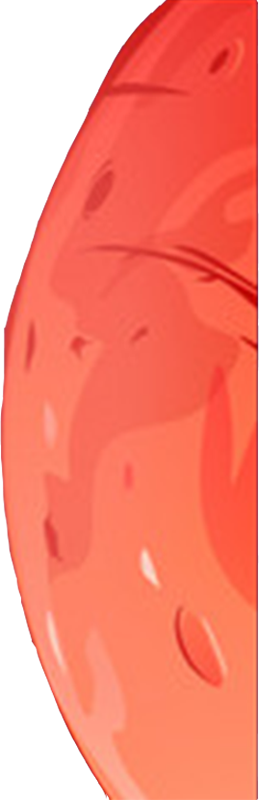
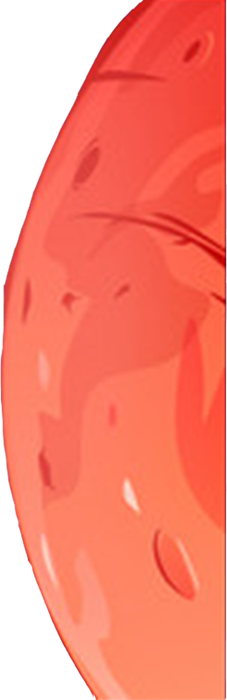
feat plane movement done, level points to do

diff --git a/thequest/scenes.py b/thequest/scenes.py
@@ -181,7 +181,7 @@ class Information(Scenes):
 class Game(Scenes):
     def __init__(self, screen: pg.Surface):
         super().__init__(screen)
-        bg_file = os.path.join("resources", "images", "background.png")
+        bg_file = os.path.join("resources", "images", "background2.png")
         self.background = pg.image.load(bg_file)
         self.player = Plane()
 
@@ -222,6 +222,7 @@ class Game(Scenes):
         self.level1_active = False
         self.level2_active = False
         self.level3_active = False
+        self.a=0;self.b=0;self.c=0  # as plane is hidden behing planet to stop collision pointer counting(just once)
         while not self.exit:
 
             self.time_loop = pg.time.get_ticks()
@@ -295,6 +296,7 @@ class Game(Scenes):
                             self.rocks_small.remove(rock)
 
             """implementar para que salga de game cuando vidas  se queden en 0"""
+            
             if plane_crash and self.activate_level_control == False:
                 self.remove_life = self.lifes_counter.lost_life()
                 if self.remove_life == 0:
@@ -445,13 +447,21 @@ class Game(Scenes):
                     #self.level3_planet.update_planet3(self.activate_level_control, self.player)
                     self.plane_in_planet3 = pg.sprite.spritecollide(self.player, self.planet_group, False)
 
-            
+                
                 if self.plane_in_planet1:
-                    self.pointer.increase_points(100)
+                    if self.a==0:
+                        print(self.a)
+                        self.pointer.increase_points(100)
+                        self.a+=1
+                        print(self.a)
                 if self.plane_in_planet2:
-                    self.pointer.increase_points(200)
+                    if self.b==0:
+                        self.b+=1
+                        self.pointer.increase_points(200)
                 if self.plane_in_planet3:
-                    self.pointer.increase_points(400)
+                    if self.c==0:
+                        self.c+=1
+                        self.pointer.increase_points(400)
 
                 self.level_window = Completed(self.screen, self.pointer.value)
 

diff --git a/thequest/objects.py b/thequest/objects.py
@@ -206,7 +206,7 @@ class Level_1(Sprite):
 
             self.player.rect.x += self.speed_planet
             
-            if self.player.rect.x >= WIDTH - self.image.get_width():
+            if self.player.rect.x >= WIDTH - self.image.get_width()  :
                 self.player.rect.x = WIDTH - self.image.get_width()
             if self.player.rect.y <= HEIGHT/2:
                 self.player.rect.y += self.speed_planet
@@ -232,7 +232,7 @@ class Level_2(Sprite):
         self.rect = self.image.get_rect(
             x=self.pos_x,  y=self.pos_y)
     
-    def update_planet1(self, status, player):
+    def update_planet2(self, status, player):
         self.player = player
         if status == True:
             
@@ -246,8 +246,8 @@ class Level_2(Sprite):
 
             self.player.rect.x += self.speed_planet
             
-            if self.player.rect.x >= WIDTH - self.image.get_width():
-                self.player.rect.x = WIDTH - self.image.get_width()
+            if self.player.rect.x >= WIDTH - self.image.get_width() :
+                self.player.rect.x = WIDTH - self.image.get_width() 
             if self.player.rect.y <= HEIGHT/2:
                 self.player.rect.y += self.speed_planet
                 if self.player.rect.y >= HEIGHT/2:
@@ -276,7 +276,7 @@ class Level_3(Sprite):
 
     
 
-    def update_planet1(self, status, player):
+    def update_planet3(self, status, player):
         self.player = player
         if status == True:
             
@@ -290,7 +290,7 @@ class Level_3(Sprite):
 
             self.player.rect.x += self.speed_planet
             
-            if self.player.rect.x >= WIDTH - self.image.get_width():
+            if self.player.rect.x >= WIDTH - self.image.get_width() :
                 self.player.rect.x = WIDTH - self.image.get_width()
             if self.player.rect.y <= HEIGHT/2:
                 self.player.rect.y += self.speed_planet
